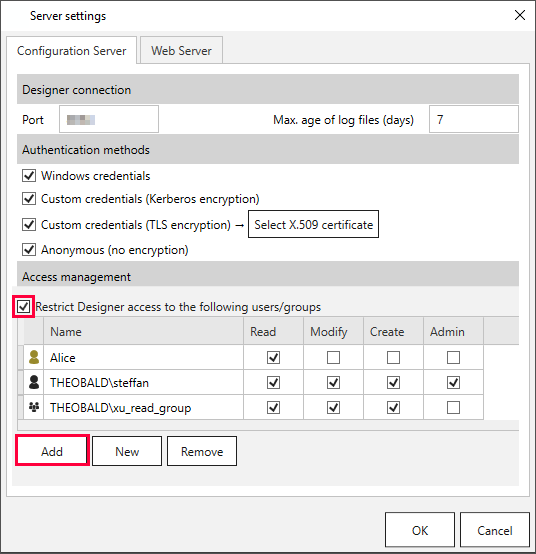
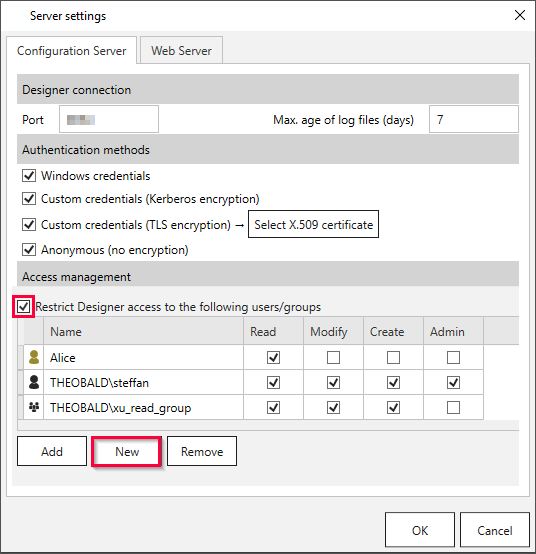
XU user management screenshot update + short intro

Changed region(s): [[0.0299, 0.7671, 0.3284, 0.8592]]

diff --git a/_includes/_content/de/xu-specific/sicherheit/benutzerverwaltung1.md b/_includes/_content/de/xu-specific/sicherheit/benutzerverwaltung1.md
@@ -29,8 +29,13 @@ Diese unterschiedlichen Anmeldeoptionen können Sie in den [Server-Einstellungen
 
 ### Benutzer und Benutzergruppen
 
+Der Designer bietet eine [Zugriffsverwaltung](./zugriffsverwaltung) für Benutzer und Benutzergruppen. 
+Dafür können sowohl Windows AD-Benutzer und -Gruppen als auch benutzerdefinierte Benutzer und Gruppen verwendet werden.
+Benutzerdefinierte Benutzer und Gruppen müssen im Designer erst angelegt werden, bevor sie zur Verfügung stehen.
+
 {: .box-note }
-**Hinweis:** Windows AD-Benutzer und -Gruppen werden außerhalb des Designers erstellt.
+**Hinweis:** Windows AD-Benutzer und -Gruppen werden außerhalb des Designers erstellt. Achten Sie darauf, im Designer nur Windows AD *Security Groups* auswählen.
+Benutzern, die einer *Distribution Group* zugewiesen wurden, wird beim Logon der Zugriff verweigert.
 
 So erstellen Sie einen benutzerdefinierten Benutzer und weisen ihn einer Benutzergruppe zu:<br>
 1. Navigieren Sie zu **Security > Manage Users**.
@@ -41,17 +46,13 @@ Zum Zeitpunkt der Benutzeranlage müssen noch keine Rechte vergeben werden. Mehr
 ![XU_security-manage-users](/img/content/server-settings_manage.png){:class="img-responsive"}
 4. Wählen Sie den Tab *Configuration Server* und aktivieren Sie die Checkbox *Restrict Designer access to the following users/groups*.
 ![XU_server-settings-add](/img/content/server-settings-add-group.png){:class="img-responsive"}
-5. Klicken Sie auf **[Add]**, um eine benutzerdefinierte Benutzergruppe anzulegen.
+5. Klicken Sie auf **[New]**, um eine benutzerdefinierte Benutzergruppe anzulegen.
 ![XU_server-settings-add-groups](/img/content/server-seetings-create-user-group.png){:class="img-responsive"}
 6. Navigieren Sie zu **Security > Manage Users**.
 7. Klicken Sie auf **[Edit]**. Das Fenster "Create new user" öffnet sich.
 ![XU_server-settings-add](/img/content/user-management-groups.png){:class="img-responsive"}
 8. Verwenden Sie die Pfeile **[<]** und **[>]**, um Benutzer Gruppen zuzuweisen und aus Gruppen zu entfernen.
 Benutzerdefinierte Benutzer können nur benutzerdefinierten Benutzergruppen zugewiesen werden. Windows AD-Benutzer können nur Windows AD-Gruppen, nicht aber benutzerdefinierten Benutzergruppen zugewiesen werden. 
-
-{: .box-note }
-**Hinweis:** Wenn Sie Benutzergruppen hinzufügen, achten Sie darauf, dass Sie nur Windows AD *Security Groups* auswählen.
-Benutzern, die einer *Distribution Group* zugewiesen wurden, wird beim Logon der Zugriff verweigert.
 
 {: .box-tip }
 **Empfehlung:** Fügen Sie Benutzer zu Benutzergruppen hinzu, um mehreren Benutzern gleichzeitig Zugang zu bestimmten Aktionen zu gewähren.

diff --git a/_includes/_content/en/xu-specific/security-xu3/user-management.md b/_includes/_content/en/xu-specific/security-xu3/user-management.md
@@ -29,9 +29,15 @@ The different logon options can be activated/deactivated in the [Server Settings
 
 ### Users and User Groups
 
+The Designer offers [Access Management](./access-management) for different users and user groups.
+You can use already existing Windows AD Users and Groups or create your own custom users and groups.
+
 {: .box-note }
 **Note:** Windows AD Users and Groups are created outside the Designer.
-Create a customuser and assign the created users to user groups:<br>
+Be careful to only add Windows AD *Security Groups* to the Designer.
+Users that are assigned to *Distribution Groups* are denied access at logon.
+
+How to create a custom user and assign the created users to user groups:<br>
 1. Navigate to **Security > Manage Users**.
 ![XU_security-manage-users](/img/content/security-manage-users.png){:class="img-responsive"}
 2. Click **[Add]** to create a new user.
@@ -40,17 +46,13 @@ At the time of user creation, no rights need to be assigned. See also [Access Ma
 ![XU_security-manage-users](/img/content/server-settings_manage.png){:class="img-responsive"}
 4. Select the tab *Configuration Server* and check the checkbox *Restrict Designer access to the following users/groups*.
 ![XU_server-settings-add](/img/content/server-settings-add-group.png){:class="img-responsive"}
-5. Click **[Add]** to create a custom user group.
+5. Click **[New]** to create a custom user group.
 ![XU_server-settings-add-groups](/img/content/server-seetings-create-user-group.png){:class="img-responsive"}
 6. Navigate to **Security > Manage Users**.
 7. Click **[Edit]**. The "Create new user" window opens.
 ![XU_server-settings-add](/img/content/user-management-groups.png){:class="img-responsive"}
 8. Use the arrows **[<]** and **[>]** to assign and remove users to and from groups.
 Custom users can only be assigned to custom user groups. Windows AD users can only be assigned to Windows AD groups, but not to custom user groups. 
-
-{: .box-note }
-**Note:** When adding a user group, be careful to only add Windows AD *Security Groups*.
-Users that are assigned to *Distribution Groups* are denied access at logon.
 
 {: .box-tip }
 **Recommendation:** It is advisable to assign users to groups and grant access to particular actions instead of adding single users and granting them access one by one.
